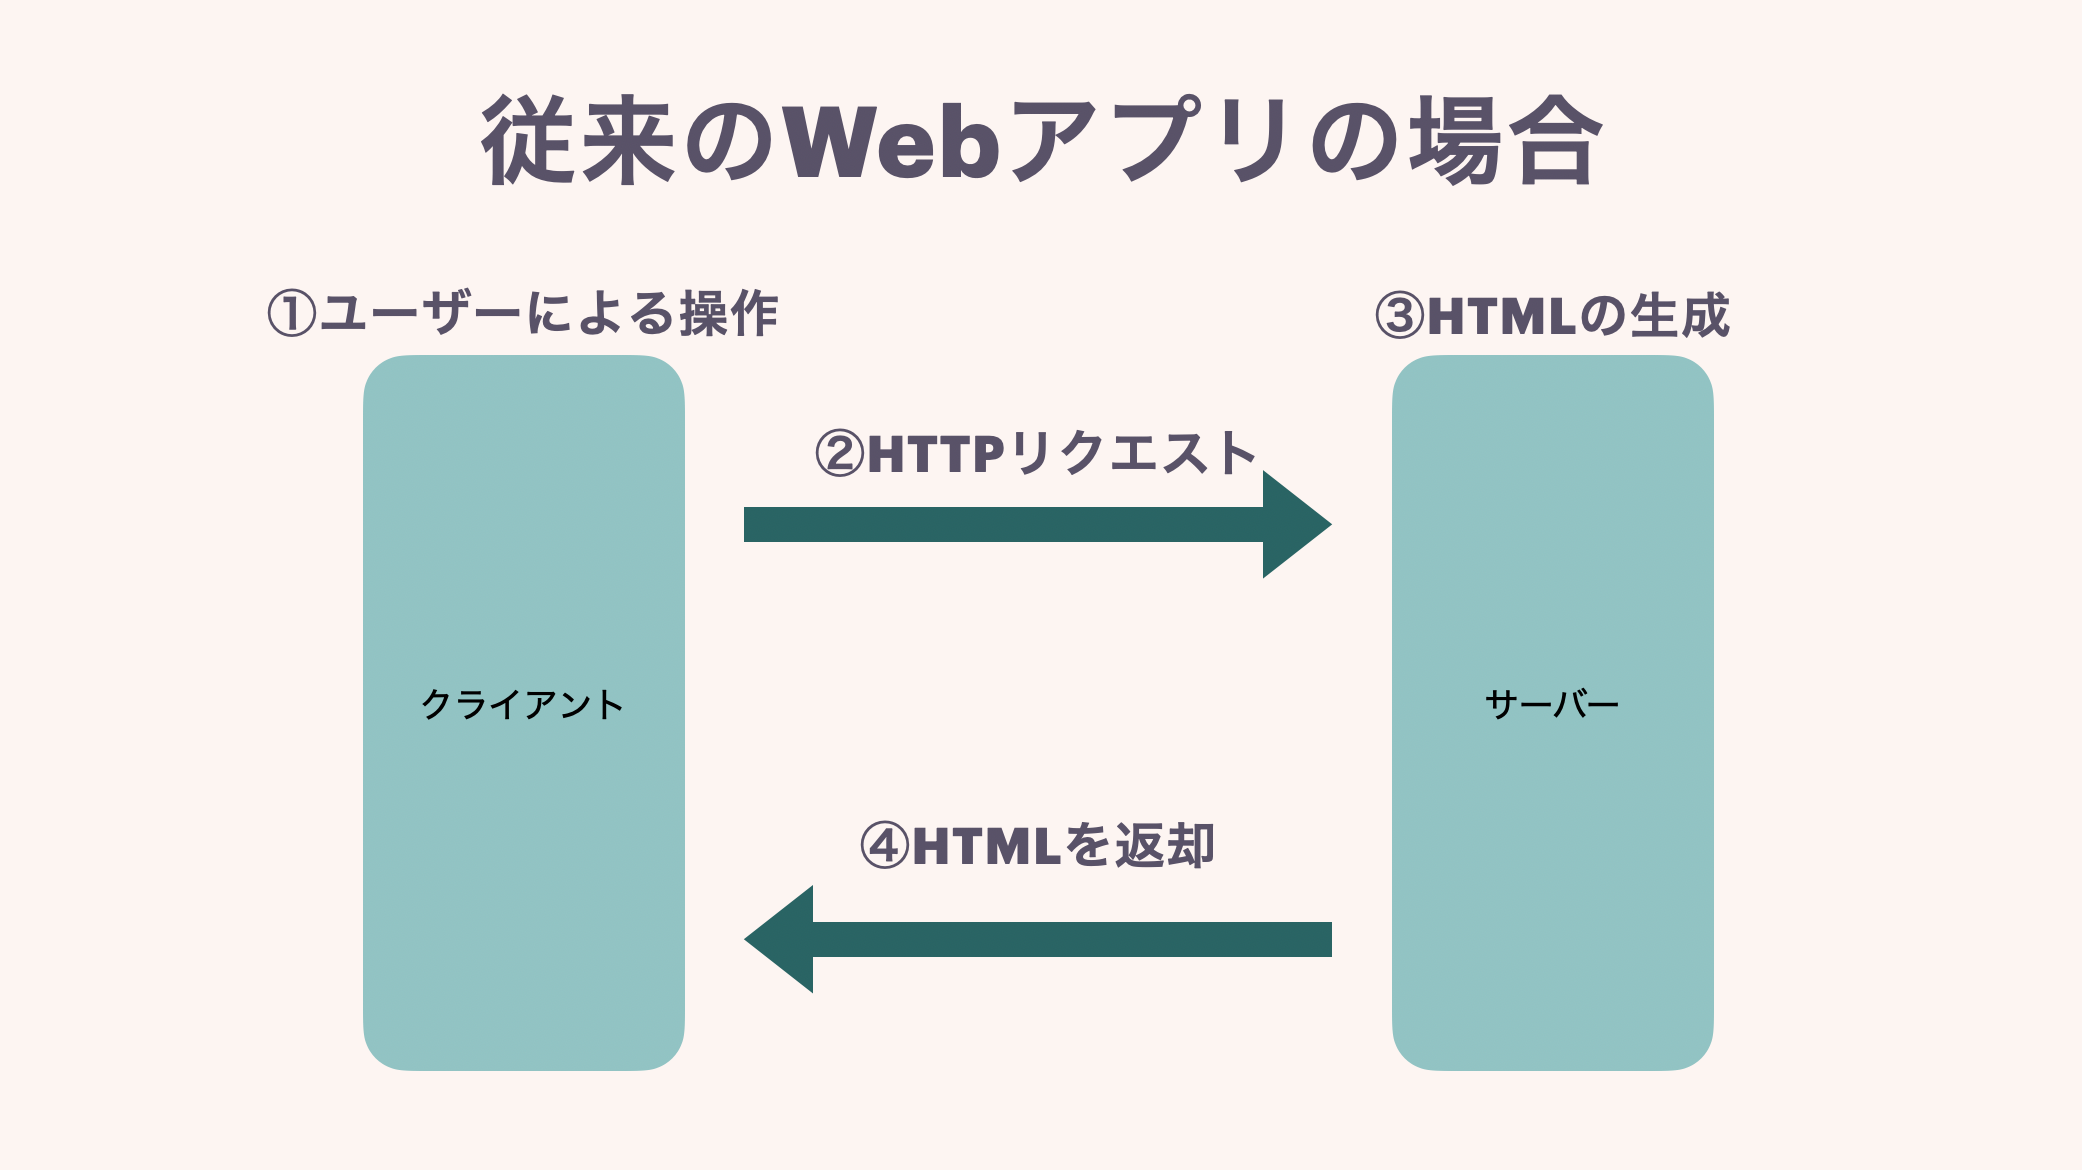
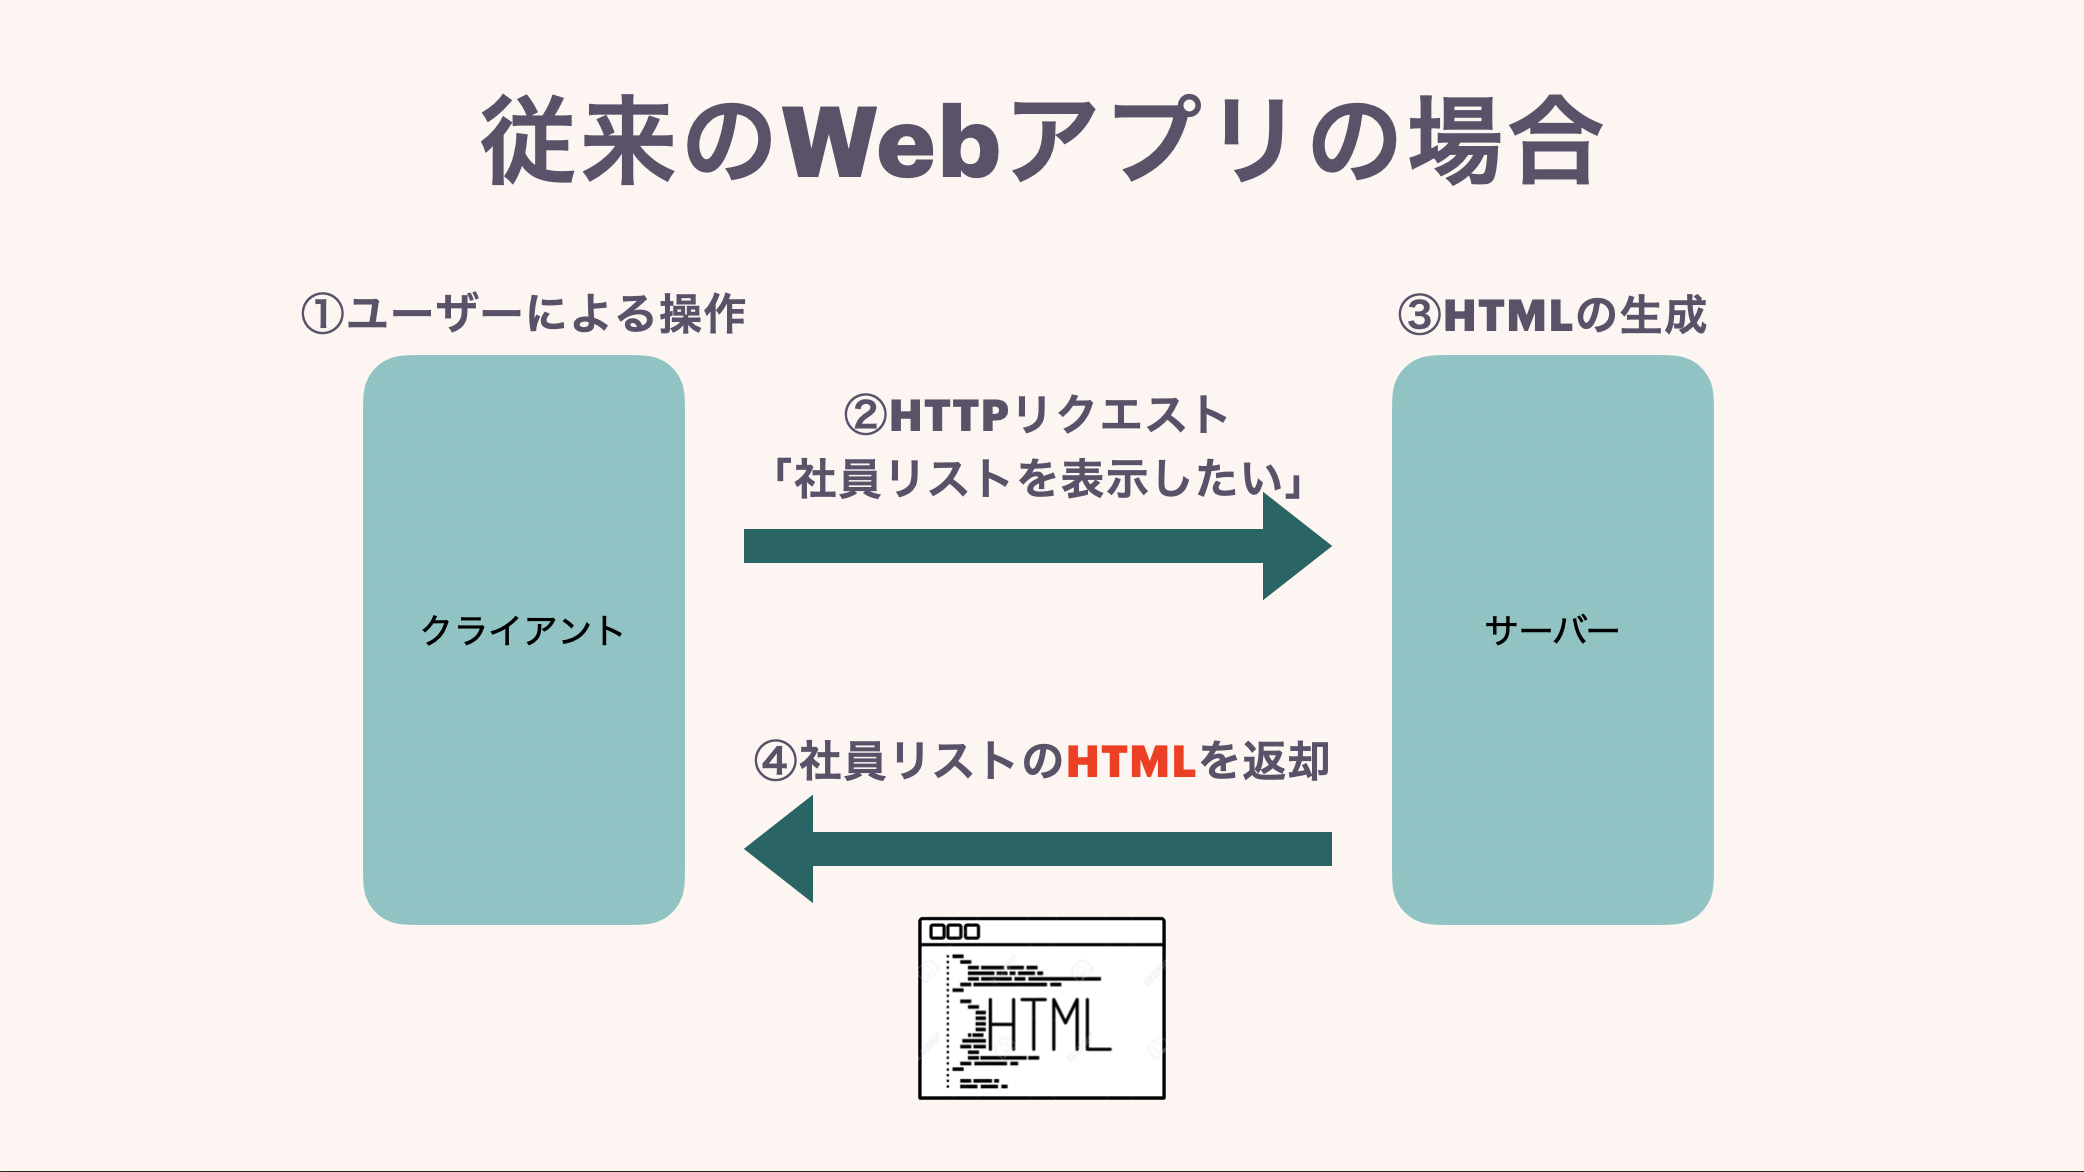
画像の差し替えと説明の修正

diff --git a/docs/page1.md b/docs/page1.md
@@ -27,41 +27,28 @@
 
 #### 従来の Web アプリの場合
 
-- クライアントからのリクエストに応じてサーバーが HTML を生成してクライアントに返却する
+- クライアントからのリクエストに応じてサーバーが HTML を生成し、クライアントに返却する
 
 ![webapp](/images/1-1.png)
 
 #### SPA の場合
 
-- 初回アクセス時にサーバーから空の HTML と JavaScript ファイルを取得する
+- クライアントからのリクエストに応じてサーバーがデータを生成し、クライアントに返却する
+- 返却されたデータをもとにクライアントが自由に画面を構成できるのが SPA の特徴です
 
-![spa1](/images/1-2.png)
+![spa](/images/1-2.png)
 
-- 以降はクライアントの操作(クリック等)に応じて JavaScript が HTML を更新する
-- この際にサーバーとの通信が発生しないのが SPA の特徴です
+#### API
 
-![spa2](/images/1-3.png)
-
-## SPA と API
-
-- クライアントを SPA で作成する場合、サーバーは API 仕様となる
-
-### API とは
-
-- `Application Programming Inteface`の略称
+- API とは`Application Programming Inteface`の略称
 - あるコンピューターやソフトウェアの機能を他のプログラムから呼び出すための仕様を指す
-- 近年では HTTP プロトコルを用いてネットワーク越しに呼び出すを`Web API`が主流となっている
+- HTTP プロトコルを用いてネットワーク越しに呼び出す`Web API`が主流となっている
 
-#### Web API の例
+##### RESTful API
 
-- SOAP
-  - HTTP リクエストに対して XML 形式でデータを返却する
-- RESTful API
-
-  - HTTP リクエストに対して JSON 形式でデータを返却する
-  - REST と呼ばれる設計原則に従って策定される
-
-  ![api1](/images/1-5.png)
+- `Web API`の一種
+- HTTP リクエストに対して JSON 形式でデータを返却する
+- REST と呼ばれる設計原則に従って策定される
 
 ## SPA のメリット
 
@@ -79,6 +66,7 @@
 
   - API はクライアントの仕様に依存しないため汎用的に呼び出すことができる
   - 例えば`Twitter`では API が公開されており、様々なクライアントアプリが独自で開発されている
+  - クライアントで画面を構成するため、同じデータを取得しても画面の見た目は異なる
 
   ![api2](/images/1-6.png)
 
